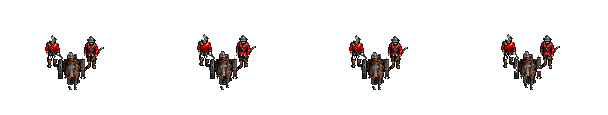
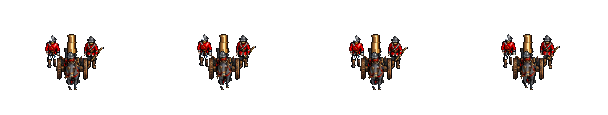
Cannon: the horse tows it by the trail, muzzle pointing back; unlimbering swings it round
Claude-Session: https://claude.ai/code/session_01NtmEZhP1uA8k4DLQ7BYfMz

diff --git a/tools/import_cannon2.py b/tools/import_cannon2.py
@@ -94,12 +94,30 @@ def is_effect(rgb):
 # horse: polygon (sheet px) holding the horse and its leader (moved/faded separately).
 # erase: polygons removed outright; effect: polygon holding the painted flash+smoke.
 
+# around the axle of the side-view walk gun (source px): breech knob at -43, the rammer
+# rod of the man behind at -46..-40 high, trail end under his boot at about -64
+def gun_side(muzzle):
+    return [(-43, -72), (muzzle + 1, -72), (muzzle + 1, 9), (-64, 9), (-64, -14), (-52, -30), (-43, -38)]
+
+
+def horse_side(tail):
+    return [(tail, -140), (300, -140), (300, 20), (tail, 20)]
+
+
 DRAWINGS = {
     # --- side sheet (facing east) ---
-    "W1": dict(sheet="side", box=(11, 82, 316, 222), soldier=96, anchor=(133, 208)),
-    "W2": dict(sheet="side", box=(363, 80, 632, 222), soldier=96, anchor=(470, 208)),
-    "W3": dict(sheet="side", box=(685, 80, 985, 222), soldier=96, anchor=(795, 206)),
-    "W4": dict(sheet="side", box=(1038, 80, 1306, 222), soldier=96, anchor=(1142, 206)),
+    # Side walk frames: the sheet draws the limbered gun with its muzzle toward the horse.
+    # A towed gun trails behind the limber with its muzzle backwards, so the gun ("gun",
+    # cut around the axle) is mirrored in build(); the rear crewman stays ("main"), the
+    # horse and leader ("horse") move up to the trail end. Polygons are relative to anchor.
+    "W1": dict(sheet="side", box=(11, 82, 316, 222), soldier=96, anchor=(133, 208), rel=True,
+               gun=gun_side(55), horse=horse_side(57), muzzle=55),
+    "W2": dict(sheet="side", box=(363, 80, 632, 222), soldier=96, anchor=(470, 208), rel=True,
+               gun=gun_side(41), horse=horse_side(30), muzzle=41),
+    "W3": dict(sheet="side", box=(685, 80, 985, 222), soldier=96, anchor=(795, 206), rel=True,
+               gun=gun_side(50), horse=horse_side(54), muzzle=50),
+    "W4": dict(sheet="side", box=(1038, 80, 1306, 222), soldier=96, anchor=(1142, 206), rel=True,
+               gun=gun_side(44), horse=horse_side(33), muzzle=44),
     "P1": dict(sheet="side", box=(8, 252, 346, 392), soldier=96, anchor=(143, 378),
                horse=[(203, 252), (346, 252), (346, 392), (203, 392)]),
     "F3": dict(sheet="side", box=(720, 434, 1039, 566), soldier=96, anchor=(847, 557),
@@ -176,9 +194,20 @@ def cut(name):
         m &= ~(poly_mask(m.shape, (x0, y0), pts) & (fl | sp | sm))
     parts = {}
     rest = m.copy()
-    for key in ("effect", "horse"):
+    for key in ("effect", "horse", "gun"):
         if key in d:
-            pm = poly_mask(m.shape, (x0, y0), d[key]) & rest
+            pts = d[key]
+            if d.get("rel"):
+                pts = [(d["anchor"][0] + x, d["anchor"][1] + y) for x, y in pts]
+            pm = poly_mask(m.shape, (x0, y0), pts) & rest
+            if key == "horse" and "muzzle" in d:
+                # tail and hind legs drawn over/behind the muzzle: leave the gun's bronze and
+                # wood to the gun
+                rgb = img[..., :3].astype(int)
+                r, g, b_ = rgb[..., 0], rgb[..., 1], rgb[..., 2]
+                gunlike = (r > b_ + 25) & (g > b_ + 8) & (g > r * 0.42)
+                xs = np.arange(m.shape[1])[None, :] + x0 - d["anchor"][0]
+                pm &= ~(gunlike & (xs <= d["muzzle"] + 1))
             parts[key] = pm
             rest &= ~pm
     parts["main"] = rest
@@ -620,7 +649,7 @@ def without(layers, *keys):
     return {k: v for k, v in layers.items() if k not in keys}
 
 
-def stack(layers, order=("horse", "main", "effect")):
+def stack(layers, order=("horse", "main", "gun", "effect")):
     return compose([layers[k] for k in order if k in layers])
 
 
@@ -646,6 +675,72 @@ def blast(effect, wreck, up=0):
     return out
 
 
+HITCH_SHIFT = 10     # game px the horse moves forward so the trail end reaches it
+
+
+def mirror(lay):
+    """Flip a layer left-right about its anchor."""
+    return Layer(lay.img[:, ::-1].copy(), lay.img.shape[1] - lay.ax, lay.ay)
+
+
+def pole(a, b):
+    """The limber pole: a 2 px wooden line between two points (game px relative to the
+    anchor), dark underside."""
+    (x0, y0), (x1, y1) = a, b
+    xs0, ys0 = int(np.floor(min(x0, x1))) - 2, int(np.floor(min(y0, y1))) - 2
+    w, h = int(np.ceil(abs(x1 - x0))) + 6, int(np.ceil(abs(y1 - y0))) + 6
+    img = np.zeros((h, w, 4), np.uint8)
+    n = int(max(abs(x1 - x0), abs(y1 - y0))) * 2 + 1
+    for t in np.linspace(0, 1, n):
+        x = int(round(x0 + (x1 - x0) * t)) - xs0
+        y = int(round(y0 + (y1 - y0) * t)) - ys0
+        img[y, x] = (104, 68, 34, 255)
+        if img[y + 1, x, 3] == 0:
+            img[y + 1, x] = (44, 28, 14, 255)
+    return Layer(img, -xs0, -ys0)
+
+
+def fill_gaps(lay, it=2):
+    """Close small notches in a figure (where another object hid it) with the nearest
+    colour of the figure."""
+    img = lay.img.copy()
+    a = img[..., 3] > 0
+    closed = ndimage.binary_fill_holes(ndimage.binary_closing(a, iterations=it)) & \
+        ndimage.binary_dilation(a, iterations=1)
+    new = closed & ~a
+    _, (iy, ix) = ndimage.distance_transform_edt(~a, return_indices=True)
+    img[new] = img[iy[new], ix[new]]
+    return Layer(img, lay.ax, lay.ay)
+
+
+def limbered_side(name, ref, gun=None):
+    """A side walk drawing with the gun turned round: trail toward the horse, muzzle back,
+    wheel on the same spot. The horse steps forward so its rump stands at the trail end
+    (the same spot in every frame) and a pole joins them. `gun` (already mirrored) replaces
+    the frame's own gun so the gun stays put through the cycle. Returns (frame, parts)."""
+    d = DRAWINGS[name]
+    L = drawing(name)
+    _, (dx, dy) = align(ref, L["gun"], search=4)
+    L = {k: shifted(v, dx, dy) for k, v in L.items()}
+    mg = gun if gun is not None else mirror(L["gun"])
+    s = SOLDIER_H / d["soldier"]
+    horse = fill_gaps(shifted(L["horse"], HITCH_SHIFT + (57 - d["horse"][0][0]) * s, 0))
+    # trail end: the right-most gun pixel in the lowest third of the gun
+    a = mg.img[..., 3] > 0
+    ys, xs = np.nonzero(a)
+    low = ys >= ys.max() - (ys.max() - ys.min()) // 3
+    i = np.argmax(xs[low])
+    trail = (xs[low][i] - mg.ax - 0.5, ys[low][i] - mg.ay - 1)
+    # the horse's trace: its left-most pixel at harness height
+    ha = horse.img[..., 3] > 0
+    hy, hx = np.nonzero(ha)
+    band = (hy - horse.ay >= -22) & (hy - horse.ay <= -16)
+    j = np.argmin(hx[band])
+    trace = (hx[band][j] - horse.ax + 1, hy[band][j] - horse.ay)
+    parts = dict(gun=mg, horse=horse, crew=L["main"], pole=pole(trail, trace))
+    return compose([horse, parts["pole"], L["main"], mg]), parts
+
+
 def build():
     A = {}
     prof = barrel_profile()
@@ -653,10 +748,15 @@ def build():
     # ---- east (side sheet) ----
     F3 = drawing("F3")
     idle_e = F3["main"]
-    walk = [stack(drawing(n)) for n in ("W1", "W2", "W3", "W4")]
-    walk[0], off = align(idle_e, walk[0])
-    for i in range(1, 4):
-        walk[i], _ = align(walk[0], walk[i], search=3)
+    walk, parts = [], []
+    fr, pt = limbered_side("W1", idle_e)
+    walk.append(fr)
+    parts.append(pt)
+    ref = mirror(pt["gun"])                 # W1's gun as drawn, aligned
+    for n in ("W2", "W3", "W4"):
+        fr, p2 = limbered_side(n, ref, gun=pt["gun"])
+        walk.append(fr)
+        parts.append(p2)
     A["walk", "e"] = walk
     A["idle", "e"] = [idle_e]
     fx = fire_effects(effect_source("F3", (895, 497)))
@@ -667,10 +767,15 @@ def build():
         r, _ = align(idle_e, drawing(n)["main"])
         rel.append(r)
     A["reload", "e"] = rel
-    P1 = drawing("P1")
-    p1, (dx, dy) = align(idle_e, stack(P1))
-    P1 = {k: shifted(v, dx, dy) for k, v in P1.items()}
-    A["deploy", "e"] = deploy_frames(walk[0], P1, idle_e, (5, 0), mid=p1)
+    # unlimbering: unhitch, swing the gun round (through a muzzle-toward-camera pose),
+    # lead the horse off, deployed muzzle forward. Played backwards to limber up.
+    pt = parts[0]
+    unhitched = compose([shifted(pt["horse"], 2, 0), pt["crew"], pt["gun"]])
+    swing_horse = shifted(pt["horse"], 4, 0)
+    off_horse = dither(shifted(pt["horse"], 6, 0))
+
+    def deploy_side(mid, end):
+        return [walk[0], unhitched, compose([swing_horse, mid]), compose([off_horse, mid]), end]
 
     # ---- south-east (angles col 1) ----
     S1 = drawing("A1R1")
@@ -684,7 +789,6 @@ def build():
     A["fire", "se"] = [compose([idle_se, at_muzzle(f, idle_se, mz)]) for f in fx]
     r3, _ = align(idle_se, drawing("A1R3")["main"])
     A["reload", "se"] = [idle_se, r3, r3]
-    A["deploy", "se"] = A["deploy", "e"][:-1] + [idle_se]
 
     # ---- north-east (angles col 1, firing row) ----
     N1 = drawing("A1R2")
@@ -698,7 +802,6 @@ def build():
     w1 = move_figure(idle_ne.img, (46, 10, 62, 33), 33, dx=1, dy=1)
     w2 = move_figure(w1, (26, 28, 44, 59), 46, bob=1)
     A["reload", "ne"] = [Layer(w1, idle_ne.ax, idle_ne.ay), Layer(w2, idle_ne.ax, idle_ne.ay), idle_ne]
-    A["deploy", "ne"] = A["deploy", "e"][:-1] + [idle_ne]
 
     # ---- south (front sheet cols 0-1) ----
     F0 = drawing("F0R0")
@@ -710,26 +813,52 @@ def build():
     r1, _ = align(idle_s, drawing("F1R0")["main"])
     w = move_figure(idle_s.img, (39, 10, 64, 47), 31, dx=-1, dy=1)
     A["reload", "s"] = [r1, Layer(w, idle_s.ax, idle_s.ay), r1]
-    # limbered: the horse and its leader walk in front of the muzzle (toward the camera)
+    # ---- deployed north gun (needed for the limbered south view) ----
+    N5 = drawing("A5R3")
+    idle_n = paint_north_barrel(N5["main"], prof)
+
+    # limbered, heading south: horse and leader toward the camera, the gun towed behind
+    # them by its trail, muzzle away (north): the deployed north gun without its two side
+    # men, the front sheet's two front-facing crew beside it.
     HS = shifted(drawing("HS")["main"], 0, 12)
+    g = idle_n.img.copy()
+    hh, ww = g.shape[:2]
+    yy, xx = np.mgrid[0:hh, 0:ww]
+    side = (xx <= 15) | ((xx <= 22) & (yy < 44)) | (xx >= 48) | ((xx >= 40) & (yy < 44))
+    g[side] = 0
+    gunN = Layer(clean(g, min_size=7, keep_near=1), idle_n.ax, idle_n.ay)
+    c = idle_s.img.copy()
+    hh, ww = c.shape[:2]
+    yy, xx = np.mgrid[0:hh, 0:ww]
+    men = ((xx <= 17) & (yy < 33)) | ((xx <= 13) & (yy < 48)) | \
+          ((xx >= 41) & (yy < 33)) | ((xx >= 46) & (yy < 48))
+    c[~men] = 0
+    crewS = c
     ws = []
     for k in range(4):
-        main, horse = idle_s.img, HS.img
+        crew, horse = crewS, HS.img
         if k in (1, 3):
             for wk in WALKERS["F0R0"]:
                 kw = dict(bob=1, raise_l=2) if (k == 1) != bool(wk.get("swap")) else dict(bob=1, raise_r=2)
-                main = move_figure(main, wk["box"], wk["legs"], **kw)
+                crew = move_figure(crew, wk["box"], wk["legs"], **kw)
             h, w = horse.shape[:2]
             hk = dict(bob=1, raise_r=2) if k == 1 else dict(bob=1, raise_l=2)
             horse = move_figure(horse, (0, 0, w, h), 30, **hk)
-        ws.append(compose([Layer(main, idle_s.ax, idle_s.ay), Layer(horse, HS.ax, HS.ay)]))
+        ws.append(compose([gunN, Layer(crew, idle_s.ax, idle_s.ay), Layer(horse, HS.ax, HS.ay)]))
     A["walk", "s"] = ws
-    A["deploy", "s"] = [ws[0], compose([idle_s, shifted(HS, 0, 4)]),
-                        compose([idle_s, dither(shifted(HS, 0, 8))]), idle_s]
+    crewL = Layer(crewS, idle_s.ax, idle_s.ay)
+    A["deploy", "s"] = [ws[0],
+                        compose([gunN, crewL, shifted(HS, 0, 4)]),
+                        compose([idle_e, shifted(HS, 13, 6)]),
+                        compose([idle_s, dither(shifted(HS, 18, 8))]),
+                        idle_s]
+
+    # side unlimbering (east, and reused by south-east / north-east)
+    A["deploy", "e"] = deploy_side(idle_s, idle_e)
+    A["deploy", "se"] = deploy_side(idle_s, idle_se)
+    A["deploy", "ne"] = deploy_side(idle_n, idle_ne)
 
     # ---- north (angles col 5) ----
-    N5 = drawing("A5R3")
-    idle_n = paint_north_barrel(N5["main"], prof)
     A["idle", "n"] = [idle_n]
     mz = (idle_n.ax, 22.5)
     fx = fire_effects(effect_source("F3", (895, 497)), aim=90, squash=0.6)
